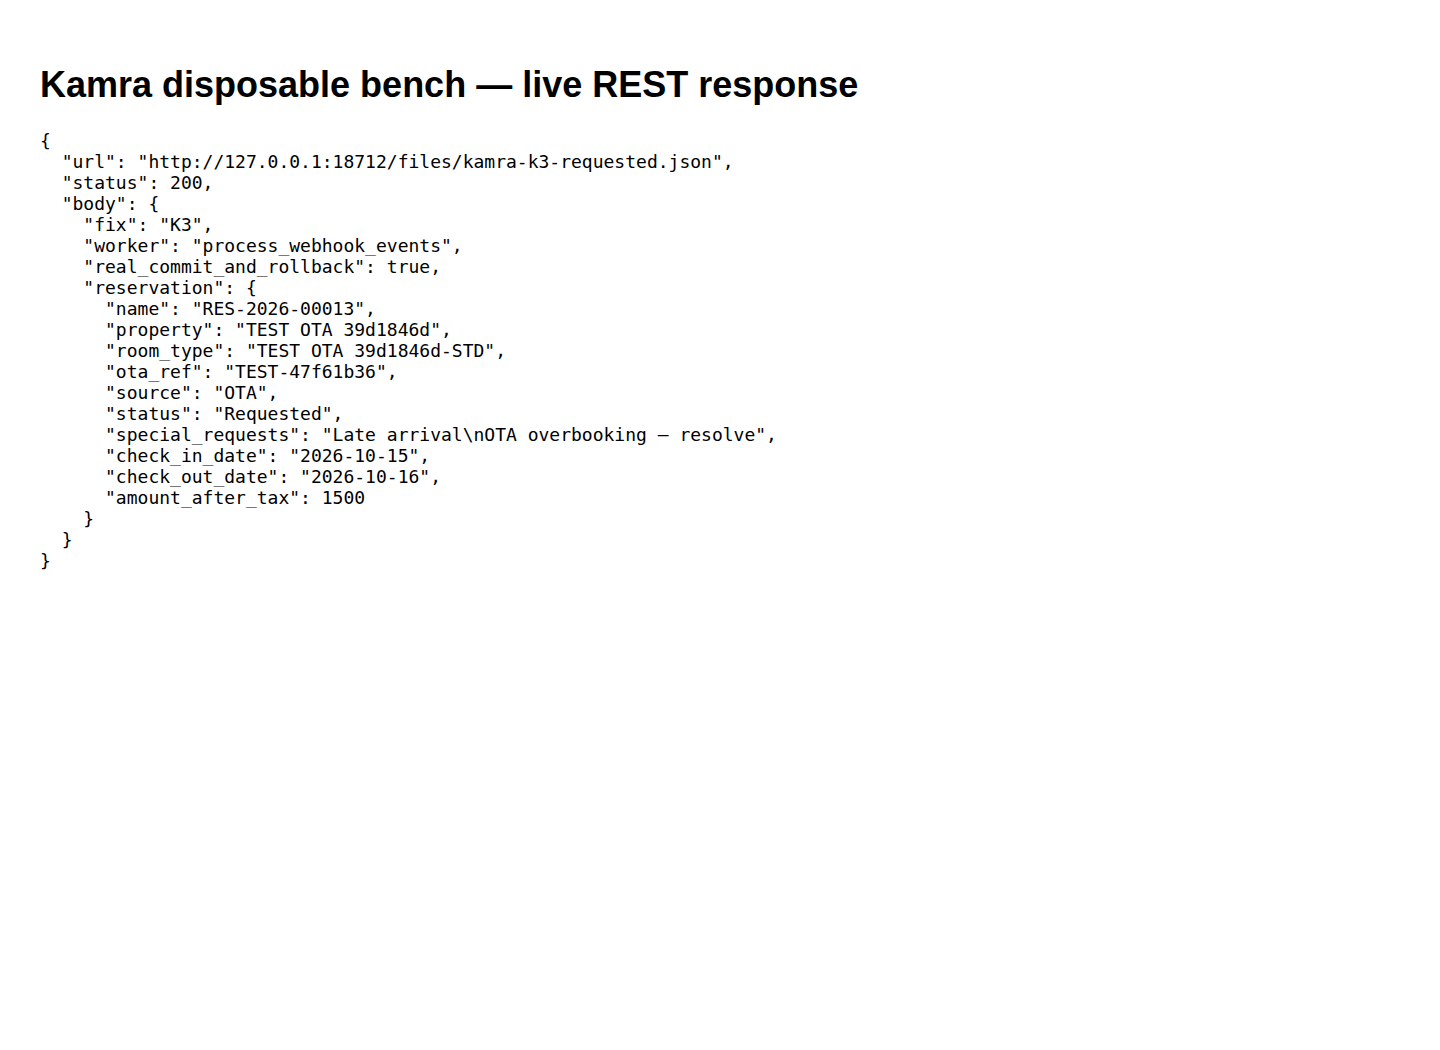
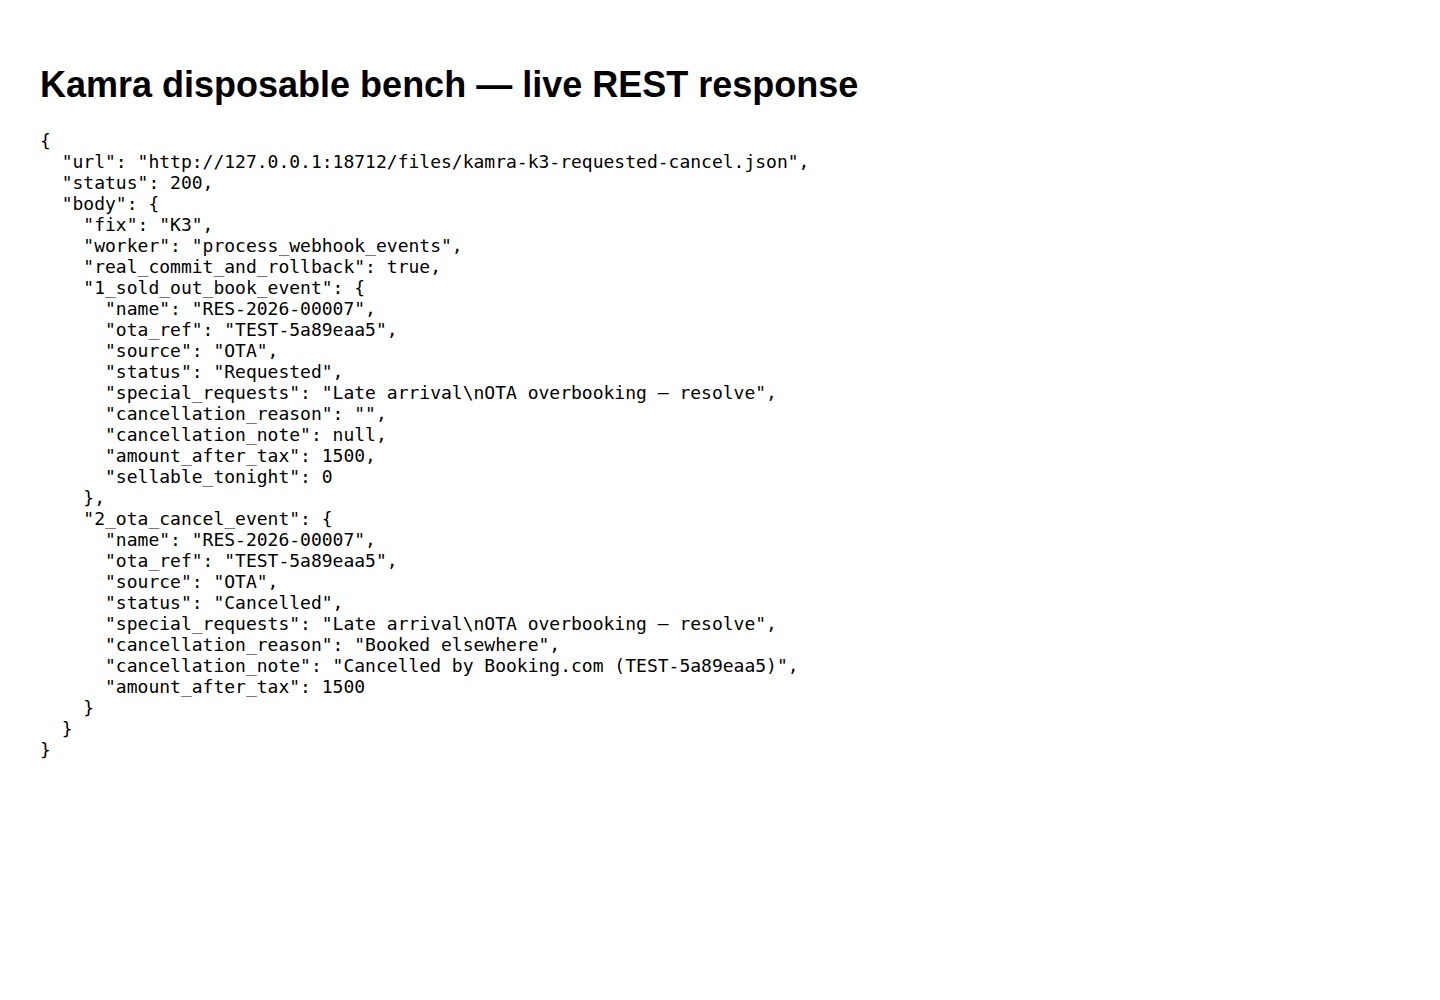
docs: refresh K3 evidence for review round

Changed region(s): [[0.0312, 0.124, 0.5625, 0.713], [0.0312, 0.062, 0.5938, 0.124]]

diff --git a/docs/evidence/k3/proof.py b/docs/evidence/k3/proof.py
@@ -1,24 +1,39 @@
+"""Live K3 proof on the disposable bench: real worker, real commit/rollback."""
+
 import json
+
 import frappe
+
+from kamra.channel_manager import _sellable, process_webhook_events
 from kamra.tests.test_channel_manager_bookings import ChannelManagerBookingTestCase
-from kamra.channel_manager import process_webhook_events
+
+FIELDS = ("name", "ota_ref", "source", "status", "special_requests",
+          "cancellation_reason", "cancellation_note", "amount_after_tax")
 
 frappe.local.lang = "en"
 case = ChannelManagerBookingTestCase()
 case.setUp()
 case.sold_out()
-payload = case.payload()
 frappe.db.commit()
-process_webhook_events(case.conn.name, payload)
-doc = case.received()
-assert doc.status == "Requested"
-assert "OTA overbooking — resolve" in doc.special_requests
+nights = (case.payload()["checkin"], case.payload()["checkout"])
+
+process_webhook_events(case.conn.name, case.payload())
+booked = case.received()
+after_book = {f: booked.get(f) for f in FIELDS}
+after_book["sellable_tonight"] = _sellable(case.property, case.room_type, *nights)
+assert booked.status == "Requested"
+
+process_webhook_events(case.conn.name, {"action": "cancel", "hotelCode": "demo",
+                                        "channel": "Booking.com", "bookingId": case.ref})
+cancelled = case.received()
+after_cancel = {f: cancelled.get(f) for f in FIELDS}
+assert cancelled.status == "Cancelled"
+
 proof = {"fix": "K3", "worker": "process_webhook_events", "real_commit_and_rollback": True,
-         "reservation": {field: doc.get(field) for field in (
-             "name", "property", "room_type", "ota_ref", "source", "status", "special_requests",
-             "check_in_date", "check_out_date", "amount_after_tax")}}
-file = frappe.get_doc({"doctype": "File", "file_name": "kamra-k3-requested.json", "is_private": 0,
-                       "content": json.dumps(proof, indent=2, default=str)}).insert(ignore_permissions=True)
+         "1_sold_out_book_event": after_book, "2_ota_cancel_event": after_cancel}
+file = frappe.get_doc({"doctype": "File", "file_name": "kamra-k3-requested-cancel.json",
+                       "is_private": 0, "content": json.dumps(proof, indent=2, default=str)})
+file.insert(ignore_permissions=True)
 frappe.db.commit()
 print(file.file_url)
-print("Requested reservation:", doc.name)
+print(json.dumps(proof, indent=2, default=str))

diff --git a/docs/evidence/k3/README.md b/docs/evidence/k3/README.md
@@ -1,8 +1,24 @@
 # K3 evidence
 
 Pinned base: v2.6.12 / 985606b3497b784e556b1d7522c28098123a77d7.
+Rebased on maximus/integration-20261015 at 5ca279e (K1, K2, C3 merged).
 RED: 7933afdad4ce56cacfef3dab0aa0899dd0f8d0a5, tests only.
 GREEN: 025c2d135f710161b452650c358023a89a0ee40f, production-only.
+(Pre-rebase SHAs; after rebase: RED 53aa695, GREEN 52d6266.)
+
+Review round (Grok, changes requested):
+RED 04b0a766104febb180f401de08ca15a52bbbafbe, tests only: 12 tests, 3 genuine
+failures. An OTA cancel left a retained Requested stay Requested; a modify that
+dropped a Requested line left it Requested; a physical-room overlap refusal
+(title "Double booking blocked", lower case) was logged and the booking dropped.
+GREEN ccf05454969dec8f27a94a954a29d54bc9f6fe4f, production only: 12/12 pass.
+Inventory refusals now raise an explicit InventoryRefused (a ValidationError
+subclass) from the sold-out, room-overlap and both villa checks; the worker
+retains on that exception class instead of reading message titles. OTA cancel
+and modify reconciliation release Requested lines without a fee or credit note
+(they hold no room and took no money). Eval harness on the rebased candidate:
+89/89. Neighbouring suites (aiosell, reservation capacity, OTA availability) pass.
+See red-review.txt, green-review.txt, eval-after.txt, proof-output.txt.
 
 Focused command: bench --site kamra.localhost run-tests --module kamra.tests.test_channel_manager_bookings.
 Final RED: 9 tests, 7 genuine failures: sold-out AioSell events disappeared, foreign
@@ -15,9 +31,11 @@ ledger: Requested carries the amount/currency/property-currency mismatch in its 
 Missing currency comes from Property.currency; no INR default remains. Matching
 currency keeps Confirmed and OTA price. Replay remains idempotent by ota_ref.
 
-Screenshot: live authenticated browser rendering of a native File from the disposable
-bench. It shows an actual Requested Reservation with OTA ref, source OTA, original
-special request and resolution note. Fresh Chrome profile removed. Project:
+Screenshot (refreshed): live authenticated browser rendering of a native File from
+the disposable bench. proof.py drives the real worker with real commit/rollback: a
+sold-out AioSell book event is kept as Requested with the resolution note and
+sellable stays 0, then an AioSell cancel for the same booking turns it Cancelled
+("Booked elsewhere", note naming the OTA booking). Fresh Chrome profile removed. Project:
 kamra-fixes-nrk9ze, loopback-only 127.0.0.1:18712; Frappe 16.52.0, payments version-16,
 Kamra 2.6.12, Python 3.14.8, MariaDB 11.8. ERPNext not installed on the site.
 
